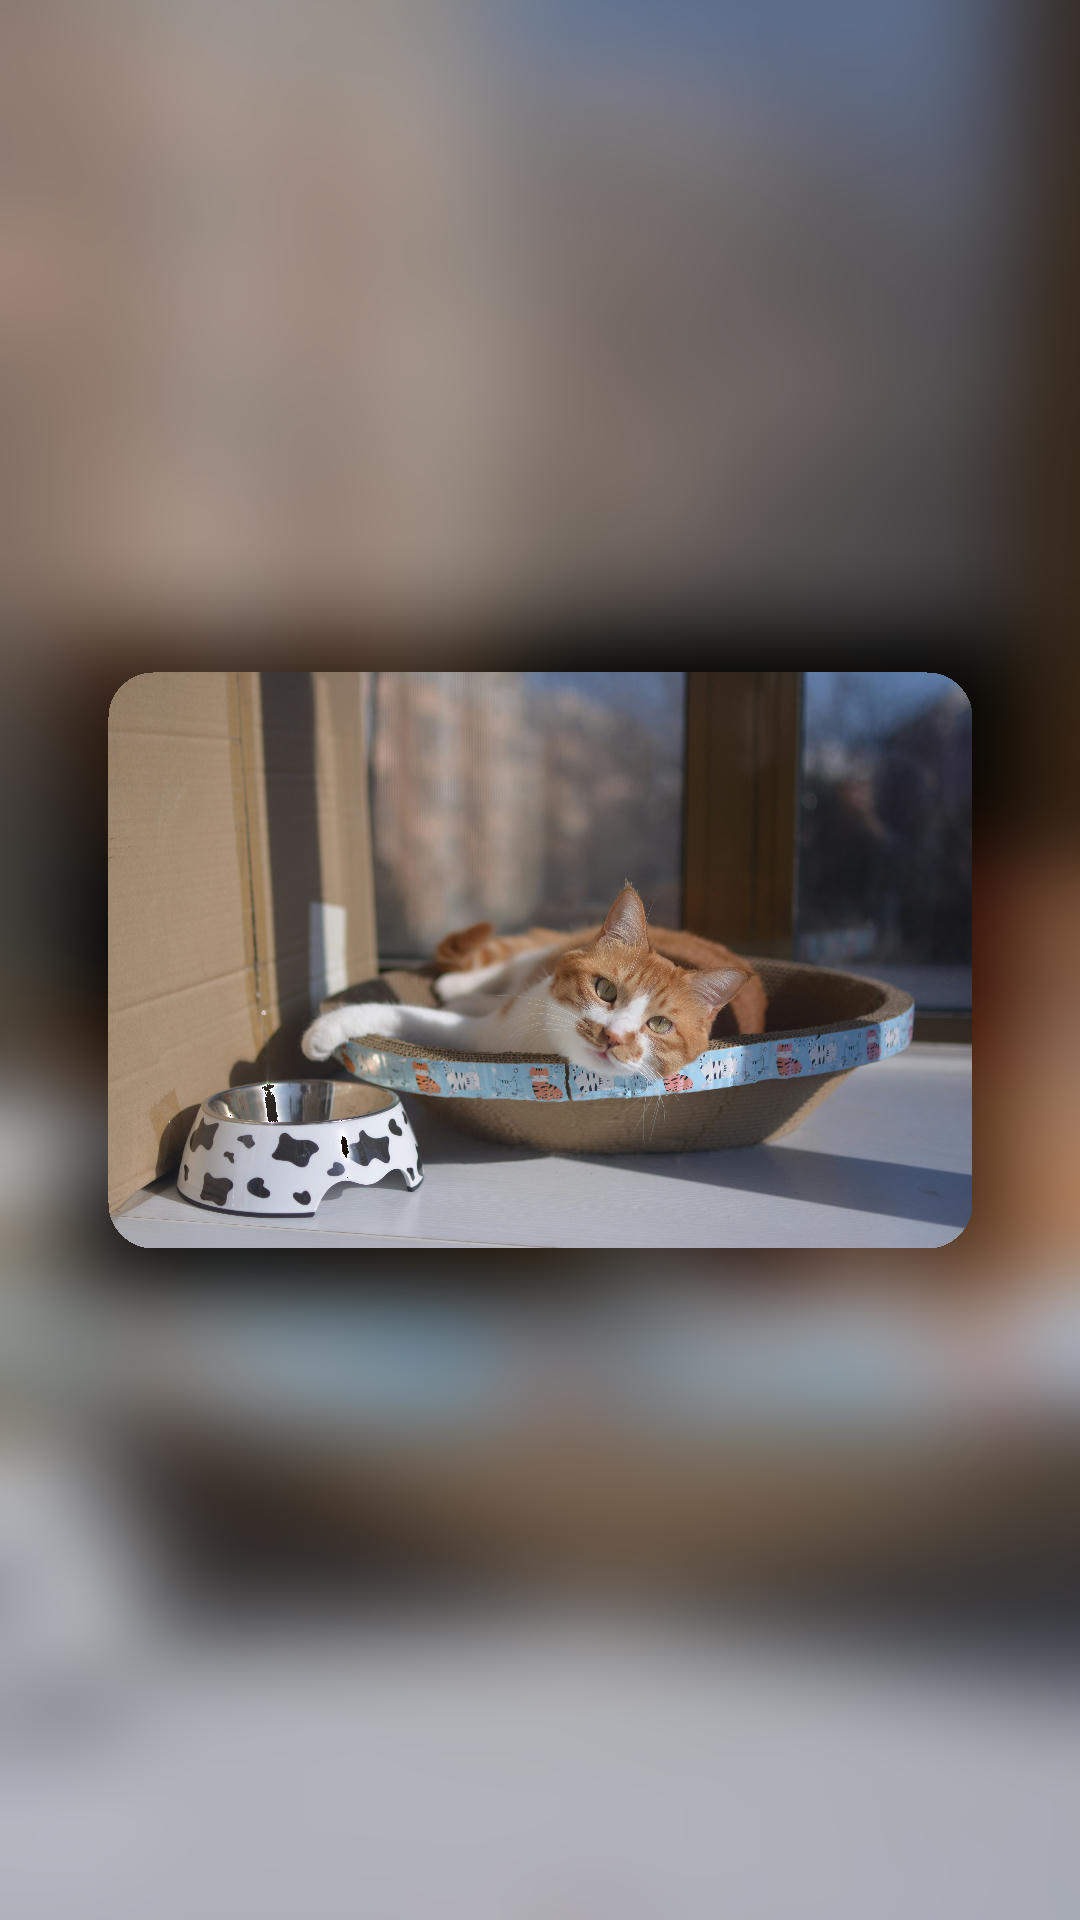
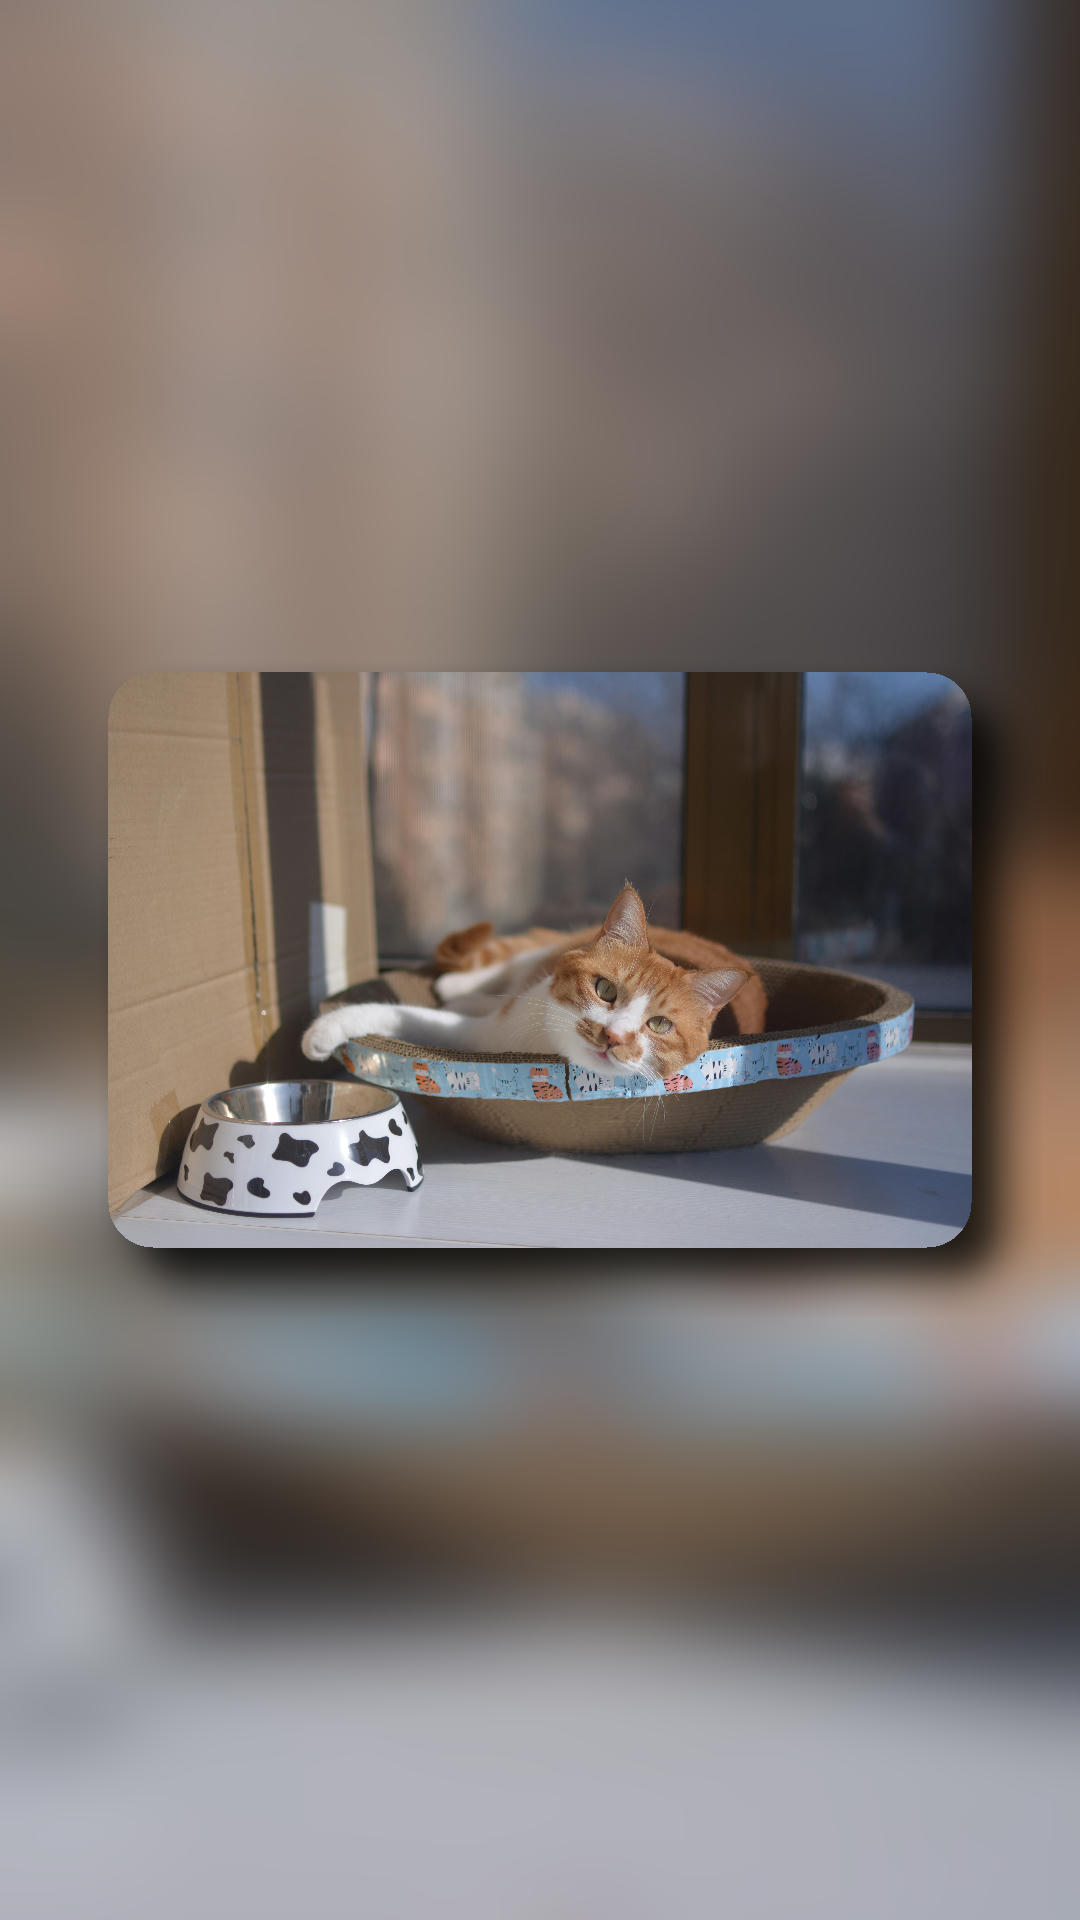
feat: switch new new shadow algorithm

Changed region(s): [[0.0306, 0.3125, 0.9472, 0.6875], [0.5806, 0.4375, 0.9778, 0.6875], [0.2444, 0.5625, 0.275, 0.5938]]

diff --git a/native/bmps/src/lib.rs b/native/bmps/src/lib.rs
@@ -1,5 +1,5 @@
 pub use config::Config;
-use image::{imageops::FilterType, DynamicImage, GenericImage, GenericImageView, Pixel, Rgba};
+use image::{imageops::FilterType, DynamicImage, GenericImage, GenericImageView, Pixel};
 use std::{path::Path, sync::OnceLock, time::Instant};
 
 pub mod config;
@@ -94,7 +94,7 @@ fn open_img<P: AsRef<std::path::Path>>(path: P) -> anyhow::Result<DynamicImage> 
 
 pub fn go(cfg: Config) -> anyhow::Result<()> {
     let img = open_img(cfg.source_file.as_str())?;
-    let mut bg_img = if cfg.white_bg {
+    let bg_img = if cfg.white_bg {
         DynamicImage::ImageRgb8(image::RgbImage::from_pixel(
             cfg.size.width,
             cfg.size.height,
@@ -109,47 +109,47 @@ pub fn go(cfg: Config) -> anyhow::Result<()> {
     let img = img.resize(width as u32, height as u32, FilterType::Nearest);
     let dist_v = (bg_img.height() - img.height()) / 2;
     let dist_h = (bg_img.width() - img.width()) / 2;
+
+    let mut bg_img = blur(cfg.size.blur_radius as f32, bg_img);
+    let mut img = DynamicImage::ImageRgba8(img.to_rgba8());
+    //let rounded = effects::round::Rounded::new(&img, cfg.size.round_radius);
+    // let (img, dx, dy) = shadow.apply(&rounded);
+    let draw_round_cost = Instant::now();
+    effects::round::apply(&mut img, cfg.size.round_radius);
+    log::info!(
+        "draw_round_cost: {}ms",
+        draw_round_cost.elapsed().as_millis()
+    );
+
     //  draw shadow
-    let darker = |p: Rgba<u8>| {
-        const D: u8 = 100;
-        let d = p.0.map(|v| if v < D { 0 } else { v - D });
-        Rgba(d)
-    };
-    // let shadow = effects::shadow::Builder::new()
-    //     .offset(50, 50)
-    //     .blur_radius(cfg.size.shadow)
-    //     .color([255, 255, 255, 200])
-    //     .build();
-    // let (img, dx, dy) = shadow.apply(&img);
-    let shadow = cfg.size.shadow;
+    let shadow = effects::shadow::Builder::new()
+        .offset(cfg.size.shadow_offset_x, cfg.size.shadow_offset_y)
+        .blur_radius(cfg.size.shadow)
+        .color([0, 0, 0, 200])
+        .build();
     let draw_shadow_cost = Instant::now();
-    for x in (dist_h - shadow)..(bg_img.width() - dist_h + shadow) {
-        for y in (dist_v - shadow)..(bg_img.height() - dist_v + shadow) {
-            let p = bg_img.get_pixel(x, y);
-            bg_img.put_pixel(x, y, darker(p));
-        }
-    }
+    let (img, dx, dy) = shadow.apply(&img);
     log::info!(
         "draw_shadow_cost: {}ms",
         draw_shadow_cost.elapsed().as_millis()
     );
 
-    let mut bg_img = blur(cfg.size.blur_radius as f32, bg_img);
-    let checker = effects::round::Checker {
-        width: img.width(),
-        height: img.height(),
-        radius: cfg.size.blur_radius,
-    };
     // draw main content
     for x in 0..img.width() {
         for y in 0..img.height() {
-            if !checker.contains(x, y) {
+            let f = img.get_pixel(x, y);
+            let x = x + dist_h;
+            let y = y + dist_v;
+            if x < dx || y < dy {
                 continue;
             }
-            let f = img.get_pixel(x, y);
-            let mut b = bg_img.get_pixel(x + dist_h, y + dist_v);
-            b.blend(&f);
-            bg_img.put_pixel(x + dist_h, y + dist_v, b);
+            let x = x - dx;
+            let y = y - dy;
+            if x < bg_img.width() && y < bg_img.height() {
+                let mut b = bg_img.get_pixel(x, y);
+                b.blend(f);
+                bg_img.put_pixel(x, y, b);
+            }
         }
     }
     if cfg.source_file == cfg.dest_file || cfg.dest_file.is_empty() {
@@ -172,7 +172,7 @@ pub fn go(cfg: Config) -> anyhow::Result<()> {
 mod tests {
     use std::time::Instant;
 
-    use image::{Pixel, RgbaImage};
+    use image::{Pixel, Rgba, RgbaImage};
 
     use super::*;
 
@@ -182,6 +182,7 @@ mod tests {
     }
     #[test]
     fn gogogo() {
+        let _ = env_logger::try_init();
         let s = Instant::now();
         let mut cfg = Config {
             source_file: "./hello.jpg".to_owned(),

diff --git a/native/bmps/examples/normalize.rs b/native/bmps/examples/normalize.rs
@@ -39,6 +39,16 @@ fn main() {
                 .value_parser(clap::value_parser!(u32)),
         )
         .arg(
+            arg!(-sox --shadow-offset-x [SHADOW_OFFSET_X] "Shadow offset x")
+                .default_value("30")
+                .value_parser(clap::value_parser!(i32)),
+        )
+        .arg(
+            arg!(-soy --shadow-offset-y [SHADOW_OFFSET_Y] "Shadow offset y")
+                .default_value("30")
+                .value_parser(clap::value_parser!(i32)),
+        )
+        .arg(
             arg!(-p --padding [PADDING] "Range [0, 0.5)")
                 .default_value("0.1")
                 .value_parser(clap::value_parser!(f64)),
@@ -56,6 +66,8 @@ fn main() {
             round_radius: get(&matches, "round"),
             padding: get(&matches, "padding"),
             shadow: get(&matches, "shadow"),
+            shadow_offset_x: get(&matches, "shadow-offset-x"),
+            shadow_offset_y: get(&matches, "shadow-offset-y"),
         },
         source_file: get(&matches, "input"),
         dest_file: get(&matches, "out"),

diff --git a/native/bmps/src/effects/shadow.rs b/native/bmps/src/effects/shadow.rs
@@ -60,7 +60,7 @@ impl Shadow {
     }
     /// 生成包含阴影的图层，以及原图偏移量（ (0,0)在此图层的位置）
     /// 详见 [When shadows are drawn](https://html.spec.whatwg.org/multipage/canvas.html#when-shadows-are-drawn)
-    pub fn gen_bg(&self, img: &DynamicImage) -> (RgbaImage, u32, u32) {
+    pub fn gen_bg<T: GenericImageView<Pixel = Rgba<u8>>>(&self, img: &T) -> (RgbaImage, u32, u32) {
         let get_size = |origin: i32, offset: i32, blur: i32| -> (u32, u32) {
             let s = origin.max(origin + offset + blur) - 0.min(offset - blur);
             let x = if offset < 0 {
@@ -120,7 +120,7 @@ impl Shadow {
     }
 
     /// 生成最终，以及原图偏移量（ (0,0)在此结果图中的位置）
-    pub fn apply(&self, img: &DynamicImage) -> (RgbaImage, u32, u32) {
+    pub fn apply<T: GenericImageView<Pixel = Rgba<u8>>>(&self, img: &T) -> (RgbaImage, u32, u32) {
         let (mut bg, dx, dy) = self.gen_bg(img);
         for x in 0..img.width() {
             for y in 0..img.height() {

diff --git a/native/bmps/src/config.rs b/native/bmps/src/config.rs
@@ -15,6 +15,8 @@ pub struct Size {
     pub round_radius: u32,
     pub padding: f64,
     pub shadow: u32,
+    pub shadow_offset_x: i32,
+    pub shadow_offset_y: i32,
 }
 impl Default for Size {
     fn default() -> Self {
@@ -25,6 +27,8 @@ impl Default for Size {
             round_radius: 45,
             padding: 0.1,
             shadow: 40,
+            shadow_offset_x: 30,
+            shadow_offset_y: 30,
         }
     }
 }
